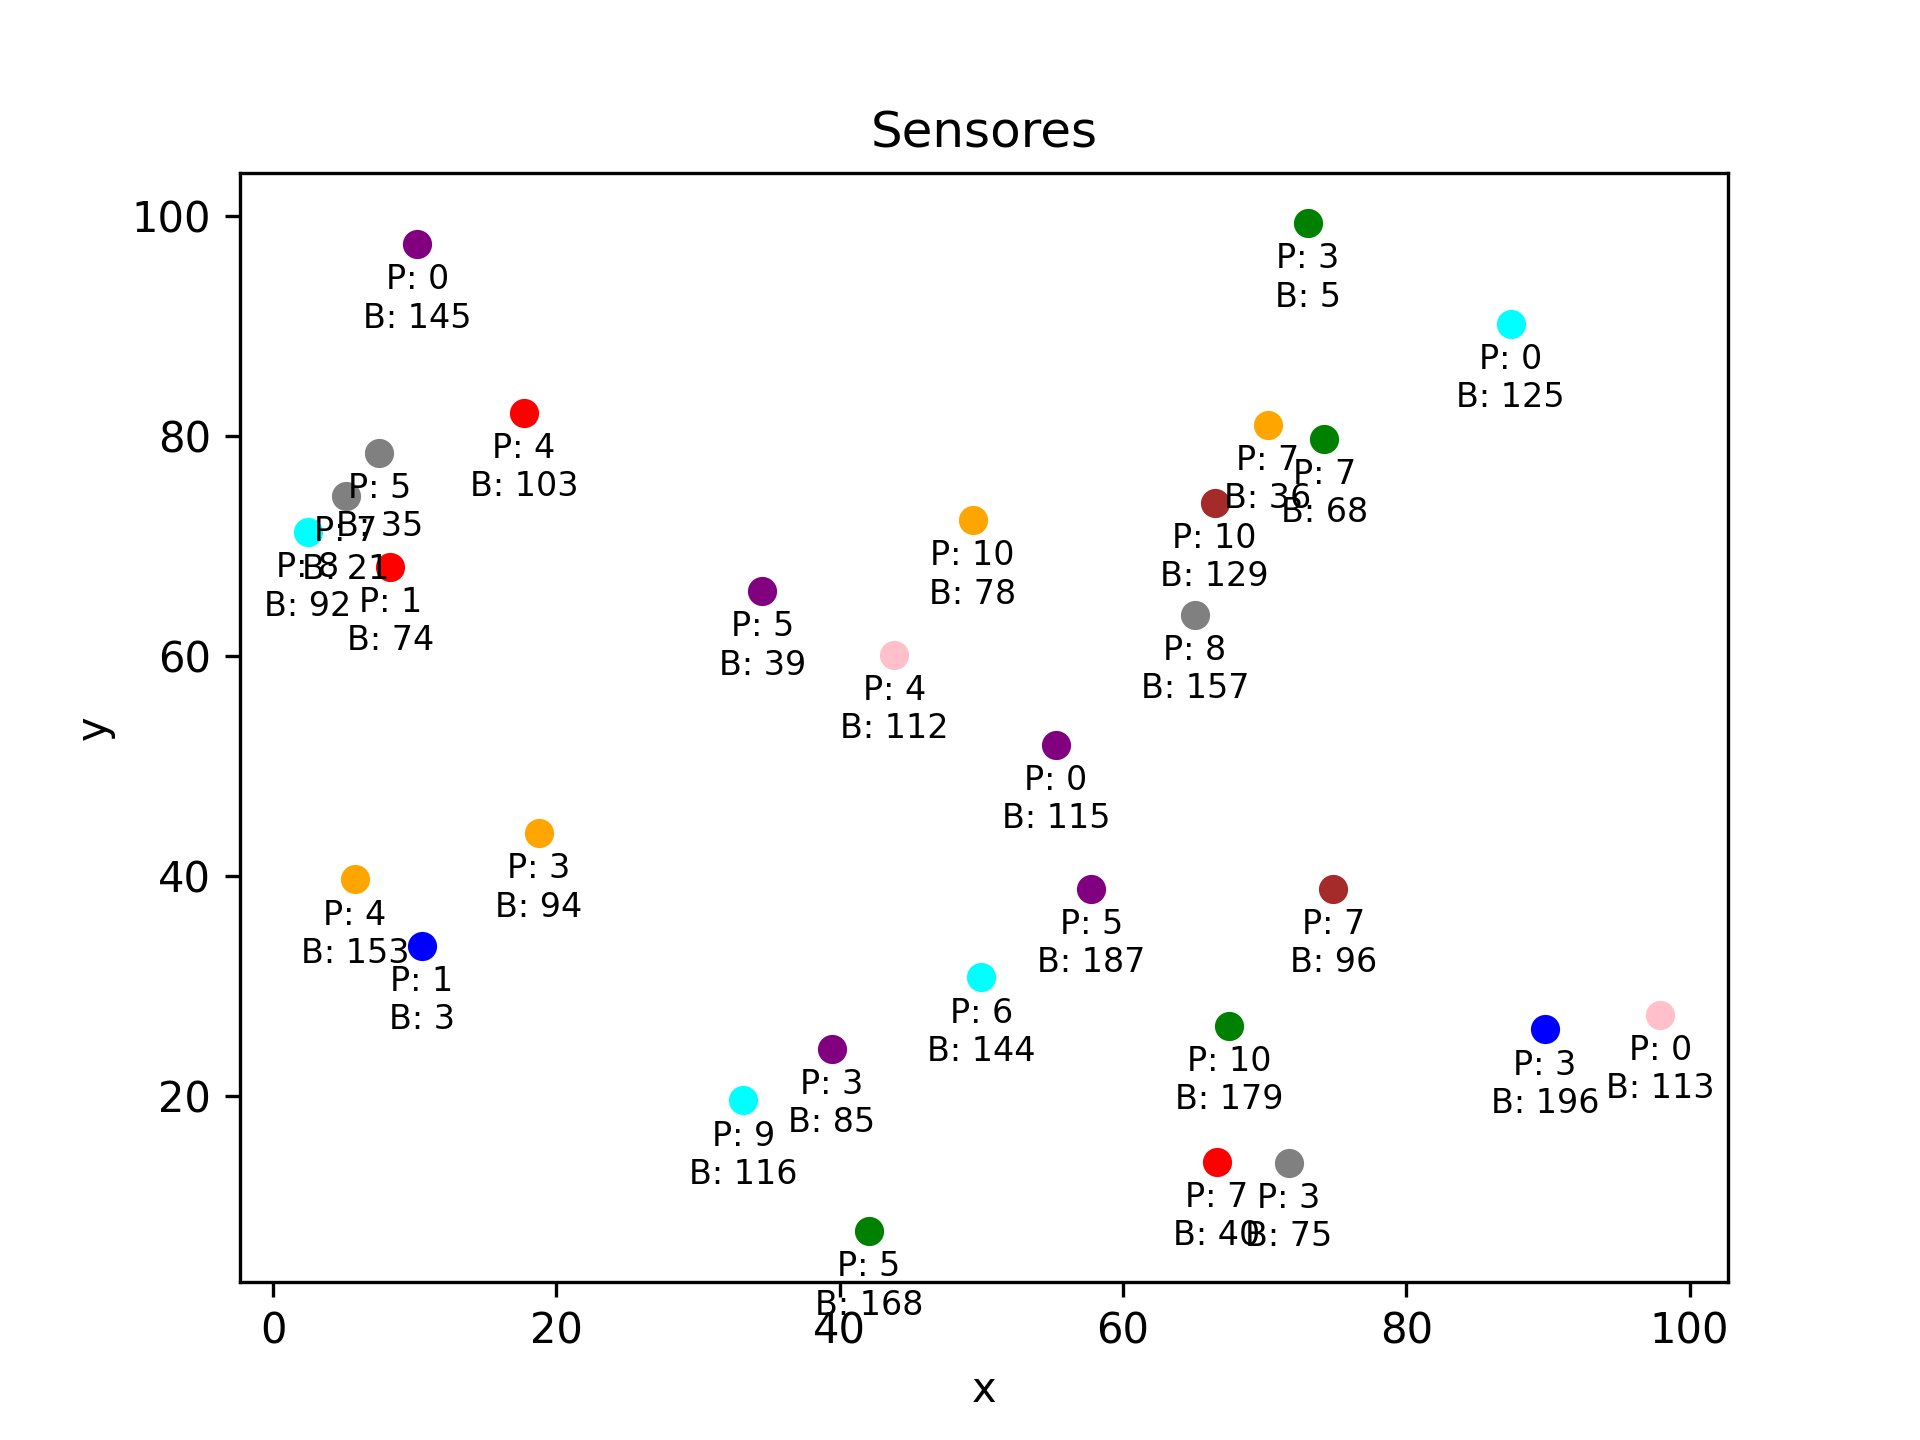
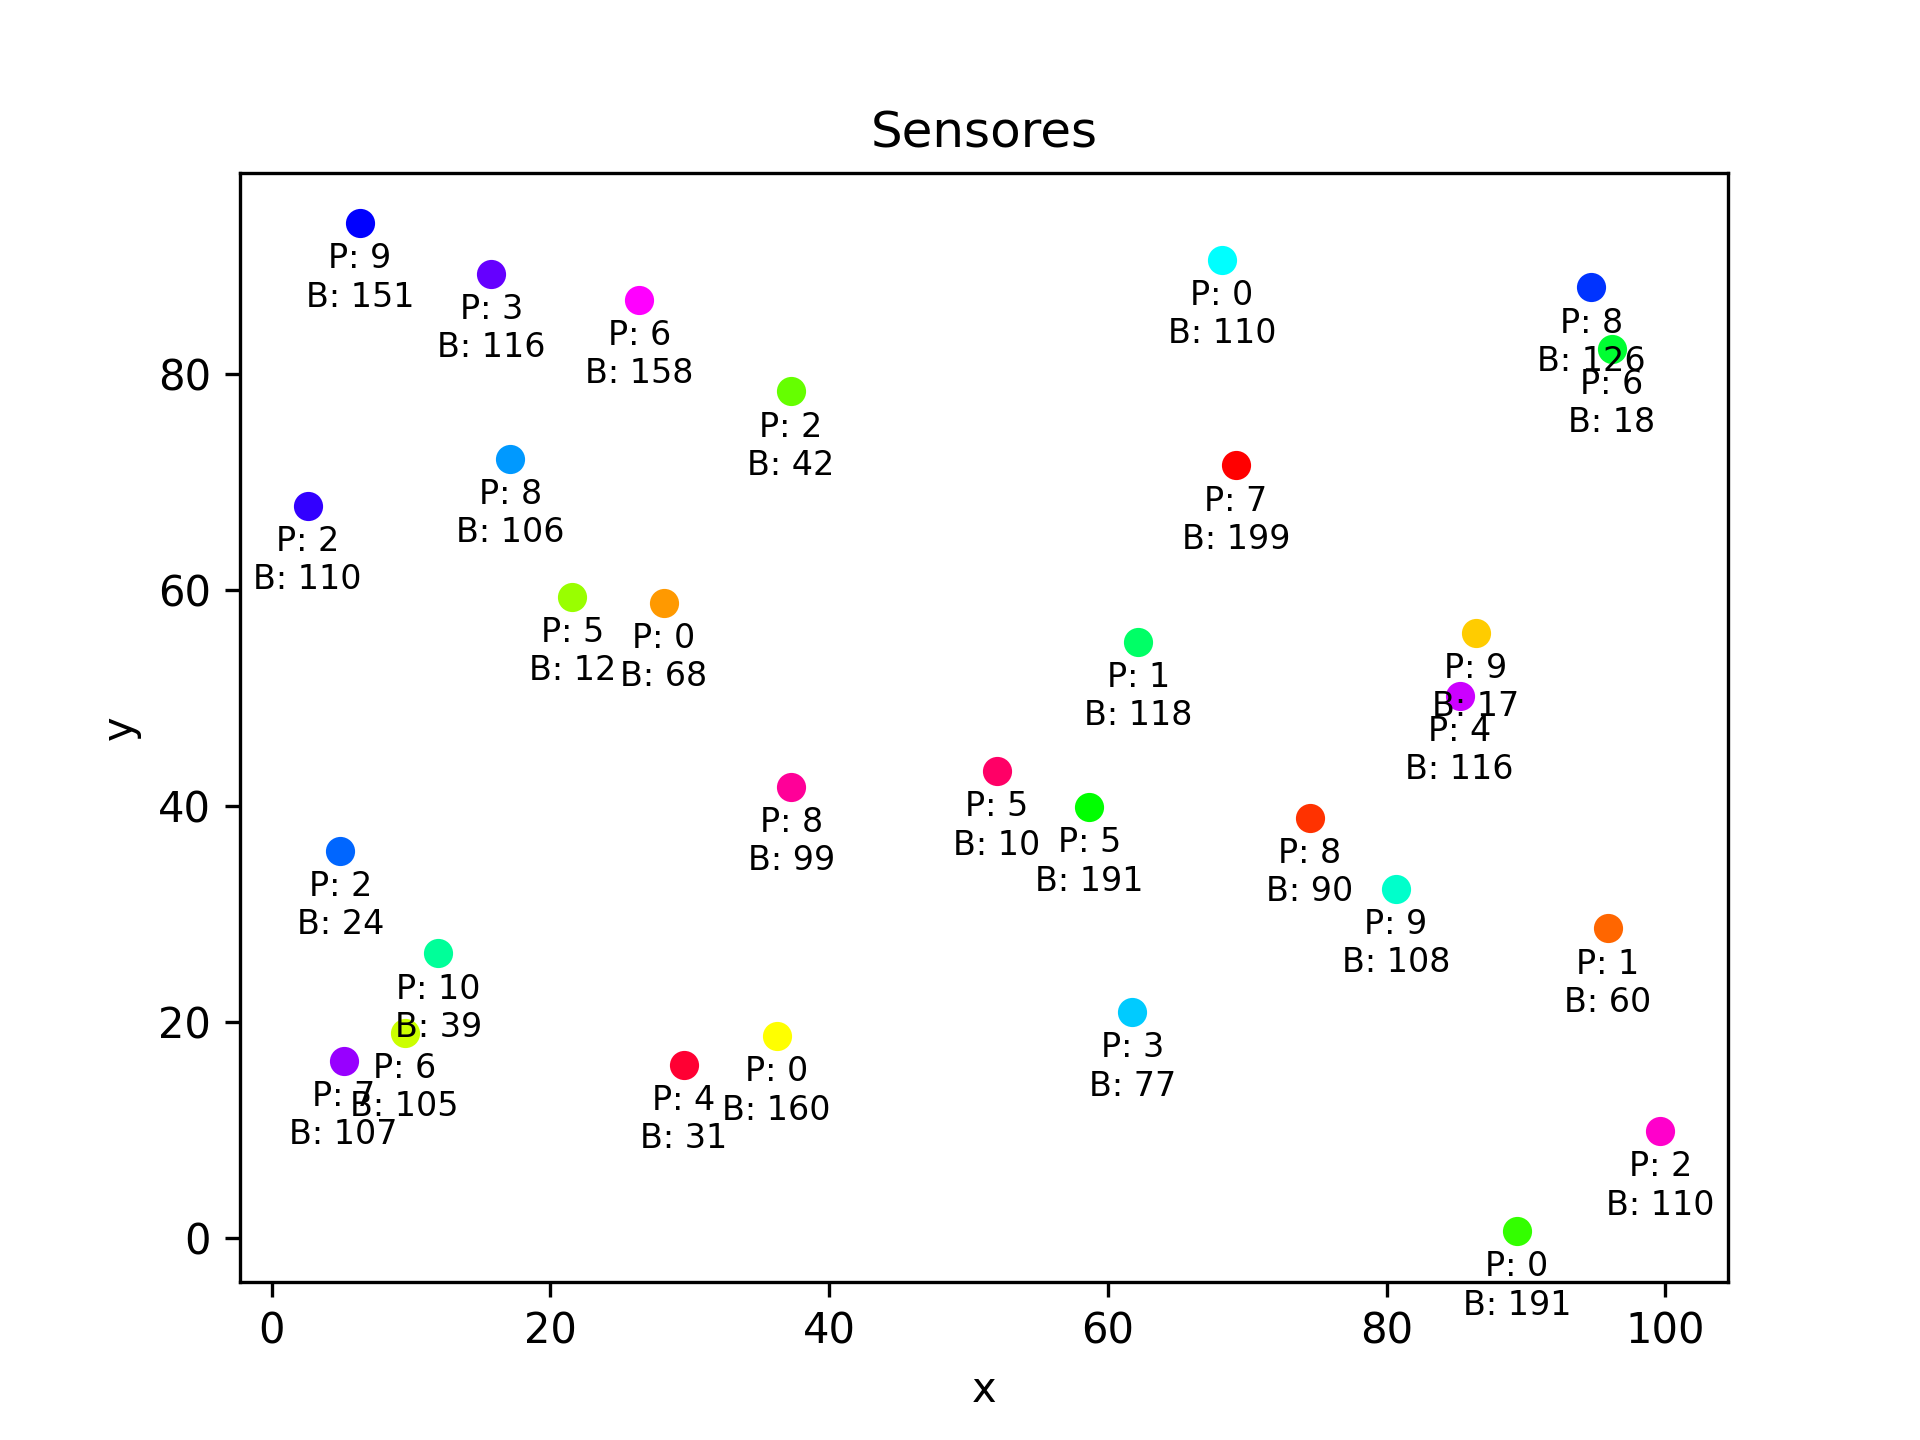
Cambio de rutas de ficheros para tenerlo todo mas ordenado

diff --git a/Generador/recuperar_sensores.py b/Generador/recuperar_sensores.py
@@ -3,6 +3,7 @@
 import matplotlib.pyplot as plt
 import re
 import random
+import colorsys
 
 # lista de posiciones, prioridades y baterias
 posiciones = []
@@ -10,7 +11,7 @@ prioridades = []
 baterias = []
 
 # abrimos el fichero en modo lectura
-with open("scenary_sensores.txt", "r") as f:
+with open("Escenario/scenary_sensores.txt", "r") as f:
     # pasamos el contenido a un string
     s = f.read()
 
@@ -18,7 +19,6 @@ with open("scenary_sensores.txt", "r") as f:
 s = [float(s) for s in re.findall(r'\d+\.?\d*', s)]
 
 # guardamos los elementos en las listas correspondientes
-contador = 0
 for i in range(0, len(s), 4):
     x = s[i]
     y = s[i+1]
@@ -27,11 +27,24 @@ for i in range(0, len(s), 4):
     posiciones.append((x, y))
     prioridades.append(p)
     baterias.append(b)
+    
+# Funcion auxiliar que genera una lista de colores unicos para los caminos de los drones
+def generarColoresUnicos(n):
+    listaColores = []
+    pasoHue = 1.0 / n
+    for i in range(n):
+        hue = i * pasoHue
+        rgb = colorsys.hsv_to_rgb(hue, 1.0, 1.0)
+        rgbInt = tuple(int(x * 255) for x in rgb)
+        hexColor = '#{:02x}{:02x}{:02x}'.format(*rgbInt)
+        listaColores.append(hexColor)
+    return listaColores
 
 # generamos el grafico
-colors = ['red', 'blue', 'green', 'yellow', 'orange', 'purple', 'pink', 'brown', 'gray', 'cyan']
+colors = generarColoresUnicos(len(posiciones))
+
 for i, t in enumerate(posiciones):
-    color = random.choice(colors)
+    color = colors[i]
     plt.scatter(t[0], t[1], c=color)
     plt.annotate(f'P: {prioridades[i]}\nB: {baterias[i]}', (t[0], t[1]), textcoords="offset points", xytext=(0,-20), ha='center', fontsize=8)
 plt.title('Sensores')

diff --git a/Generador/generador_sensores.py b/Generador/generador_sensores.py
@@ -1,5 +1,7 @@
+import colorsys
 import random
 import matplotlib.pyplot as plt
+
 
 # numero de sensores
 num = 30
@@ -20,7 +22,7 @@ prioridades = []
 baterias = []
 
 # abrimos el fichero en modo escritura
-f = open("scenary_sensores.txt", "w")
+f = open("Escenario/scenary_sensores.txt", "w")
 
 # iteramos para num sensores
 for _ in range(num):
@@ -68,15 +70,27 @@ f2.write('// Carga necesaria' + '\n' + 'F = ' + str(baterias) + ';\n')
 
 f2.close()
 
+# Funcion auxiliar que genera una lista de colores unicos para los caminos de los drones
+def generarColoresUnicos(n):
+    listaColores = []
+    pasoHue = 1.0 / n
+    for i in range(n):
+        hue = i * pasoHue
+        rgb = colorsys.hsv_to_rgb(hue, 1.0, 1.0)
+        rgbInt = tuple(int(x * 255) for x in rgb)
+        hexColor = '#{:02x}{:02x}{:02x}'.format(*rgbInt)
+        listaColores.append(hexColor)
+    return listaColores
+
 # generamos el grafico
-colors = ['red', 'blue', 'green', 'yellow', 'orange', 'purple', 'pink', 'brown', 'gray', 'cyan']
+colors = generarColoresUnicos(len(posiciones))
+
 for i, t in enumerate(posiciones):
-    color = random.choice(colors)
+    color = colors[i]
     plt.scatter(t[0], t[1], c=color)
     plt.annotate(f'P: {prioridades[i]}\nB: {baterias[i]}', (t[0], t[1]), textcoords="offset points", xytext=(0,-20), ha='center', fontsize=8)
 plt.title('Sensores')
 plt.xlabel('x')
 plt.ylabel('y')
-plt.savefig('scenary_sensores.png', dpi=300)
+plt.savefig('Escenario/scenary_sensores.png', dpi=300)
 plt.show()
-

diff --git a/Genetico/genetico_drones.py b/Genetico/genetico_drones.py
@@ -54,7 +54,7 @@ def recuperaDrones():
     drones = []
 
     # abrimos el fichero en modo lectura
-    with open("scenary_drones.txt", "r") as f:
+    with open("Escenario/scenary_drones.txt", "r") as f:
         # pasamos el contenido a un string
         s = f.read()
         
@@ -74,7 +74,7 @@ def recuperaSensores():
     sensores = []
 
     # abrimos el fichero en modo lectura
-    with open("scenary_sensores.txt", "r") as f:
+    with open("Escenario/scenary_sensores.txt", "r") as f:
         # pasamos el contenido a un string
         s = f.read()
 
@@ -598,7 +598,7 @@ def escribirResultados(mejorSolucion, tamano_poblacion, porcentaje_mejor, probab
         porcentajePrioridad = (prioridadTotal / prioridadMaxima) * 100
         
         # Escribimos en el fichero de log los resultados obtenidos por el algoritmo genetico y cerramos el fichero
-        f = open("log_drones.txt", "a") 
+        f = open("Genetico/log_drones.txt", "a") 
         string = "############# RESULTADO ##############" 
         string += "\n\n---ENTRADAS---" 
         string += "\nNumero de drones: " + str(len(drones)) 

diff --git a/Generador/recuperar_drones.py b/Generador/recuperar_drones.py
@@ -7,7 +7,7 @@ import re
 drones = []
 
 # abrimos el fichero en modo lectura
-with open("scenary_drones.txt", "r") as f:
+with open("Escenario/scenary_drones.txt", "r") as f:
     # pasamos el contenido a un string
     s = f.read()
     

diff --git a/Generador/generador_drones.py b/Generador/generador_drones.py
@@ -17,7 +17,7 @@ C = []
 n = 0
 
 # Fichero de salida para algoritmo genetico
-f = open("scenary_drones.txt", "w")
+f = open("Escenario/scenary_drones.txt", "w")
 
 for _ in range(num_drones):
     n += 1
